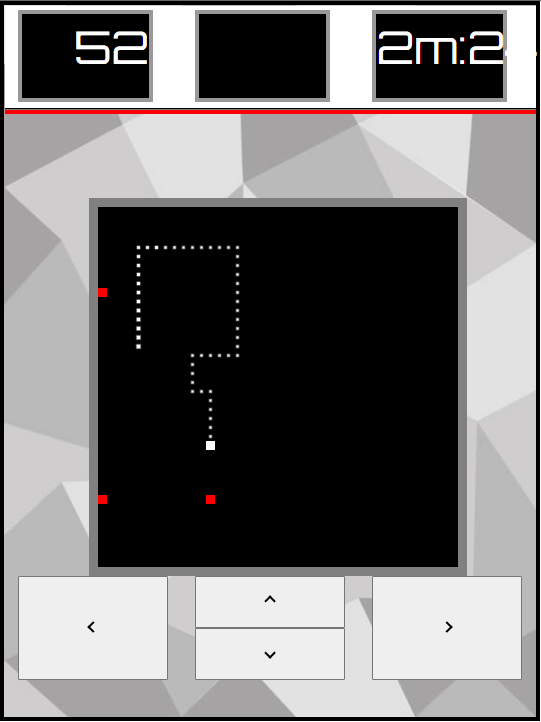
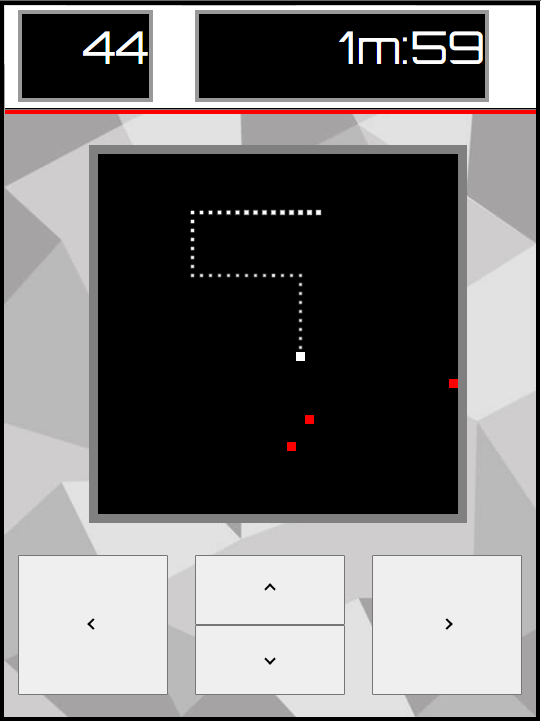
update snake game

diff --git a/index.html b/index.html
@@ -17,15 +17,15 @@
 	<div id="board">
 	<div class="container px-4"> 
 		<div id="header" class="header row gx-5"> 
-			<div id="cel1" class="cell col-xs-4 p-3"> 
+			<div id="cel1" class="cell col-xs-4 p-3">
 				<div class=" cellScreen p-3">
 					<span style="font-family: Orbitron, sans-serif;" class="sbakeFoodCount" id="snakeFood">0</span>
 				</div>
-			</div> 
+			</div> <!--
 			<div id="cel2" class="cell col-xs-4 p-3"> 
 				<div class=" cellScreen p-3"></div>
-			</div> 
-			<div id="cel3" class="cell col-xs-4 p-3">  
+			</div>  -->
+			<div id="cel3" class="cell col-xs-8 p-3">
 				<div class=" cellScreen p-3">
 					<p class="time" ><span style="font-family: Orbitron, sans-serif;" id="time">0</span></p> 
 				</div>
@@ -38,7 +38,7 @@
 	<div class="container px-4"> 
 		<div id="footer" class="footer row gx-5"> 
 			<div id="fCell1" class="footer_cell col-xs-4 p-3 text-right">
-					<button class=" p-3" type="button" onclick="getElementById('nav').innerHTML ='left'"> <i class="arrow left"></i> </button>
+					<button class="sideButtons p-3" type="button" onclick="getElementById('nav').innerHTML ='left'"> <i class="arrow left"></i> </button>
 			</div> 
 			<div id="fCell2" class="footer_cell col-xs-4 p-3">
 				<div class="centerButtonsContainer">
@@ -49,7 +49,7 @@
 				</div>
 			</div> 
 			<div id="fCell3" class="footer_cell col-xs-4 p-3 text-left">
-					<button class=" p-3" type="button" onclick="getElementById('nav').innerHTML ='right'"><i class="arrow right"></i> </button>
+					<button class="sideButtons p-3" type="button" onclick="getElementById('nav').innerHTML ='right'"><i class="arrow right"></i> </button>
 			</div>
 		</div>
 		<span id="nav">  </span>

diff --git a/css/main.css b/css/main.css
@@ -59,7 +59,7 @@ body {
 	border-style: solid;
 	border-width: 10px;
 	border-color:gray;
-	margin: 16% 16% auto 16%;
+	margin: 6% 16% 6% 16%;
 }
 
 #modalContainer {
@@ -180,7 +180,7 @@ code span {
 
 .footer_cell {
 	width:30px;
-	height:115px;
+	height:165px;
 }
 
 .arrow {
@@ -214,6 +214,11 @@ code span {
 	width: 100%;
 	height: 50%;
 }
+.sideButtons {
+	width:70%;
+	height:100%;
+}
+
 Button {
 	width:100%;
 	height:100%;

diff --git a/js/main.js b/js/main.js
@@ -38,8 +38,8 @@ const initialize = function() {
 
     // Run logic
     setInterval(function () {
-        snake.handleKeyBoardInput(keyboard);
         snake.handleScreenInput(document.getElementById('nav').innerHTML);
+        snake.handleKeyBoardInput(keyboard);
     }, 1000/60);
 
     setInterval(function () {
